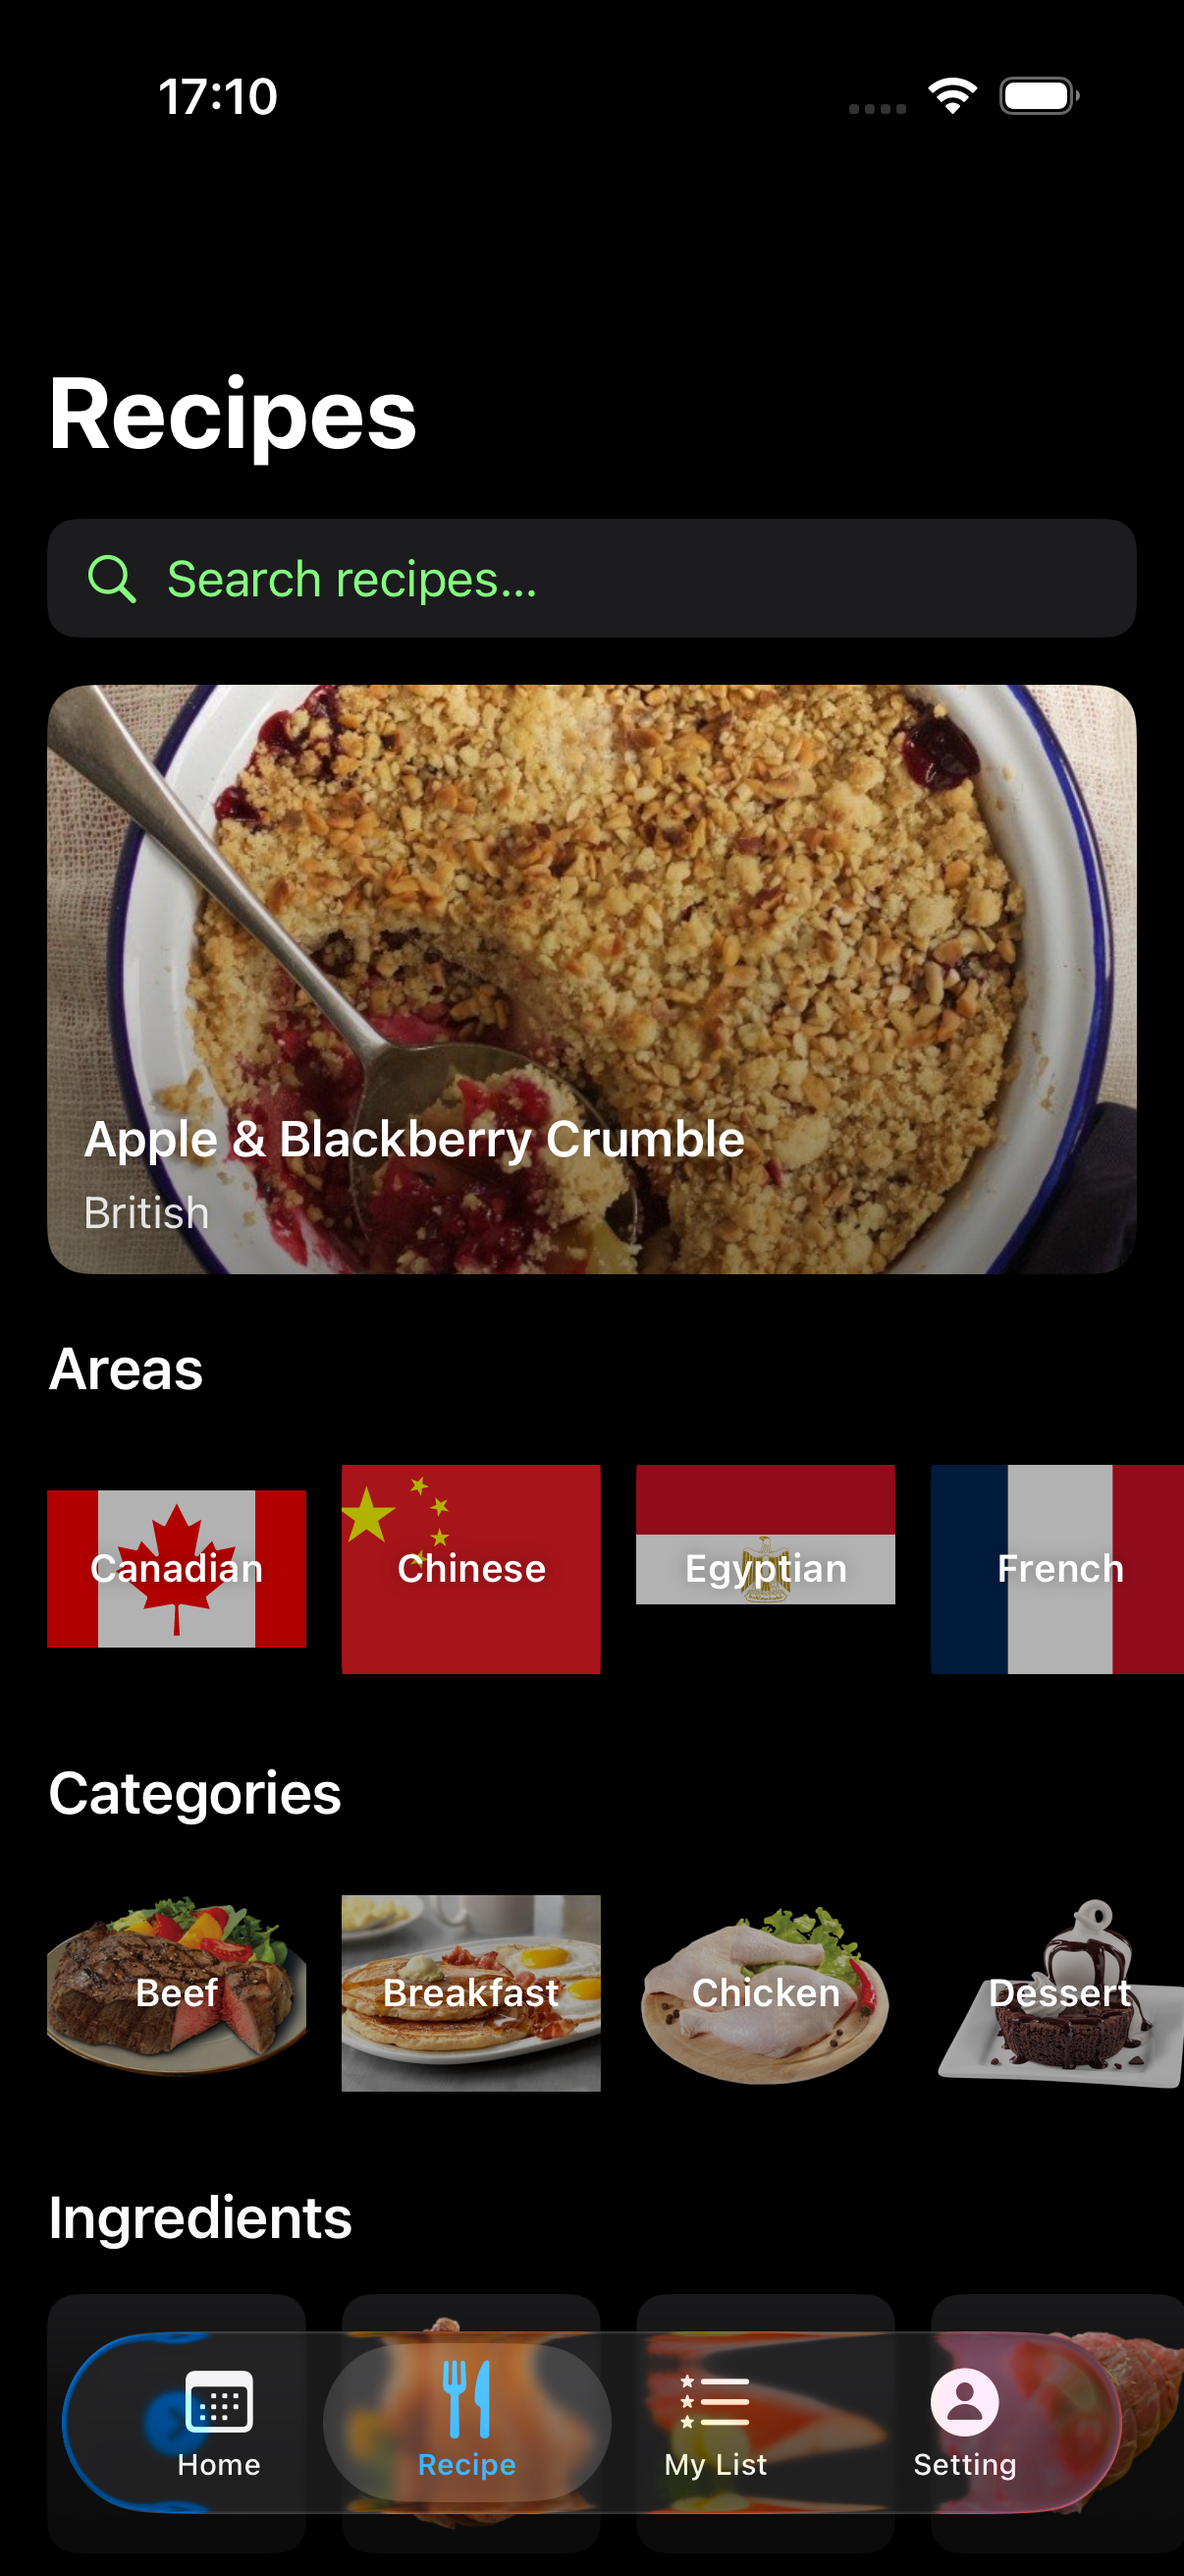
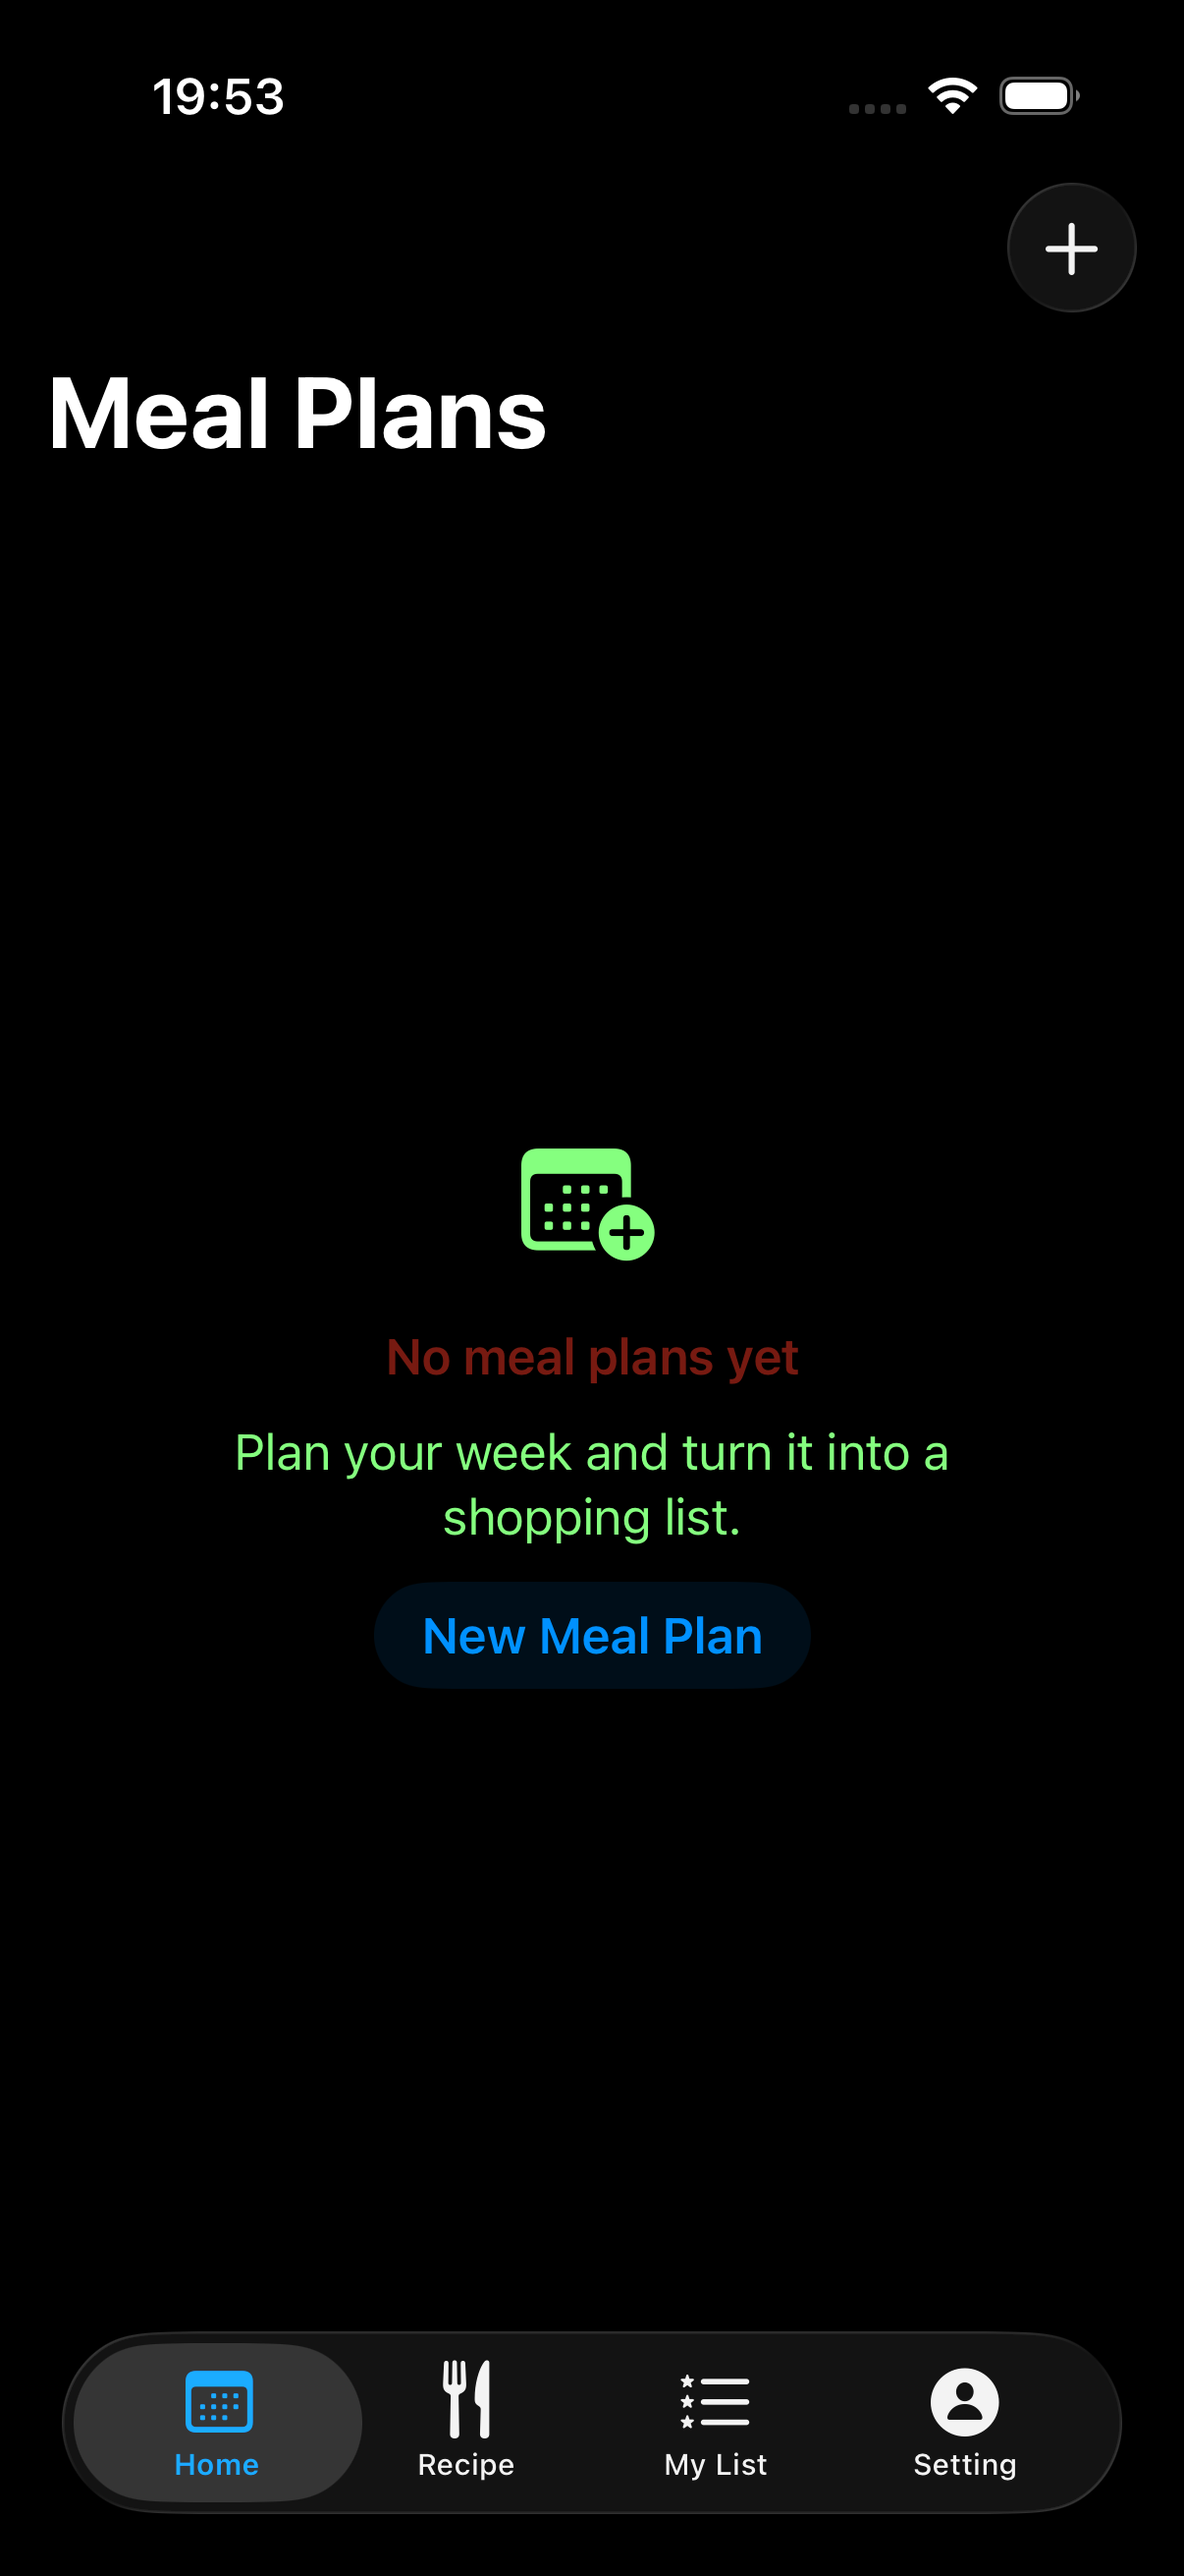
add new screen

diff --git a/SnapshotTest/SnapshotTest.swift b/SnapshotTest/SnapshotTest.swift
@@ -16,23 +16,51 @@ final class SnapshotTest: XCTestCase {
     }
 
     @MainActor
-    func testCaptureMainScreens() throws {
-        let app = XCUIApplication()
-        app.launchArguments = ["-uiTestingInMemoryStore"]
-        app.launch()
+    func testCaptureHomeTab() throws {
+        let app = launchInMemoryApp()
+
+        selectTab("Home", in: app)
+        XCTAssertTrue(waitForPlanHomeContent(in: app), "Home tab did not finish rendering.")
+        capture("01-home", in: app)
+    }
+
+    @MainActor
+    func testCaptureRecipeTab() throws {
+        let app = launchInMemoryApp()
 
         selectTab("Recipe", in: app)
-        waitForHomeContent(in: app)
-        capture("01-home", in: app)
+        waitForRecipeContent(in: app)
+        capture("02-recipe", in: app)
 
         captureSearchScreens(in: app)
         captureAreaList(in: app)
         captureCategoryList(in: app)
         captureIngredientScreens(in: app)
         captureRandomPick(in: app)
-        captureMyList(in: app)
-        captureProfile(in: app)
         captureDetailSheet(in: app)
+    }
+
+    @MainActor
+    func testCaptureMyListTab() throws {
+        let app = launchInMemoryApp()
+
+        selectTab("My List", in: app)
+        captureMyList(in: app)
+    }
+
+    @MainActor
+    func testCaptureSettingTab() throws {
+        let app = launchInMemoryApp()
+
+        selectTab("Setting", in: app)
+        captureSetting(in: app)
+    }
+
+    private func launchInMemoryApp() -> XCUIApplication {
+        let app = XCUIApplication()
+        app.launchArguments = ["-uiTestingInMemoryStore"]
+        app.launch()
+        return app
     }
 
     private func captureSearchScreens(in app: XCUIApplication) {
@@ -42,7 +70,7 @@ final class SnapshotTest: XCTestCase {
             app.staticTexts["Search for a recipe..."].waitForExistence(timeout: defaultTimeout),
             "Search idle state did not render."
         )
-        capture("02-search-idle", in: app)
+        capture("03-search-idle", in: app)
 
         let identifiedSearchField = app.textFields["search.field"]
         let placeholderSearchField = app.textFields["Search recipes…"]
@@ -54,42 +82,58 @@ final class SnapshotTest: XCTestCase {
         searchField.typeText("chicken")
         submitKeyboardSearchIfPresent(in: app)
 
-        XCTAssertTrue(waitFor("search.resultRow.0", in: app), "Search results did not load for query 'chicken'.")
-        capture("03-search-results", in: app)
+        waitForSearchResultsState(in: app)
+        capture("04-search-results", in: app)
         navigateBack(in: app)
-        waitForHomeContent(in: app)
+        waitForRecipeContent(in: app)
     }
 
     private func captureAreaList(in app: XCUIApplication) {
         tap("recipe.areaChip.0", in: app)
-        XCTAssertTrue(waitFor("titleList.recipeCard.0", in: app), "Area list did not load recipe cards.")
-        capture("04-area-list", in: app)
+        waitForTitleListScreen("Area list", in: app)
+        capture("05-area-list", in: app)
         navigateBack(in: app)
-        waitForHomeContent(in: app)
+        waitForRecipeContent(in: app)
     }
 
     private func captureCategoryList(in app: XCUIApplication) {
         tap("recipe.categoryChip.0", in: app)
-        XCTAssertTrue(waitFor("titleList.recipeCard.0", in: app), "Category list did not load recipe cards.")
-        capture("05-category-list", in: app)
+        waitForTitleListScreen("Category list", in: app)
+        capture("06-category-list", in: app)
         navigateBack(in: app)
-        waitForHomeContent(in: app)
+        waitForRecipeContent(in: app)
     }
 
     private func captureIngredientScreens(in app: XCUIApplication) {
         selectTab("Recipe", in: app)
-        waitForHomeContent(in: app)
+        waitForRecipeContent(in: app)
 
-        tap("recipe.ingredientsSeeAll", in: app)
-        XCTAssertTrue(waitFor("ingredientList.card.0", in: app), "Ingredient list did not load cards.")
-        capture("06-ingredient-list", in: app)
+        tapIngredientsSeeAll(in: app)
+        if waitFor("ingredientList.screen", in: app, timeout: 8) {
+            _ = waitForAny(["ingredientList.card.0", "ingredientList.grid"], in: app, timeout: 12)
+            capture("07-ingredient-list", in: app)
 
-        tap("ingredientList.card.0", in: app)
-        XCTAssertTrue(waitFor("titleList.recipeCard.0", in: app), "Ingredient meals list did not load recipe cards.")
-        capture("07-ingredient-meals", in: app)
-        navigateBack(in: app)
-        navigateBack(in: app)
-        waitForHomeContent(in: app)
+            if element("ingredientList.card.0", in: app).exists {
+                tap("ingredientList.card.0", in: app)
+                waitForTitleListScreen("Ingredient meals list", in: app)
+                capture("08-ingredient-meals", in: app)
+                navigateBack(in: app)
+                navigateBack(in: app)
+            } else {
+                navigateBack(in: app)
+                waitForRecipeContent(in: app)
+                captureIngredientMealsFromHomeStrip(in: app)
+            }
+        } else {
+            XCTAssertTrue(
+                waitFor("recipe.ingredientsScroll", in: app, timeout: 1),
+                "Ingredient list did not open and home ingredient strip was not visible."
+            )
+            capture("07-ingredient-list", in: app)
+            captureIngredientMealsFromHomeStrip(in: app)
+        }
+
+        waitForRecipeContent(in: app)
     }
 
     private func captureRandomPick(in app: XCUIApplication) {
@@ -103,53 +147,97 @@ final class SnapshotTest: XCTestCase {
             in: app,
             timeout: 12
         )
-        capture("08-random-pick", in: app)
+        capture("09-random-pick", in: app)
 
         let closeButton = app.buttons["Close"]
         XCTAssertTrue(closeButton.waitForExistence(timeout: defaultTimeout), "Random Pick close button did not appear.")
         closeButton.tap()
-        waitForHomeContent(in: app)
+        waitForRecipeContent(in: app)
     }
 
     private func captureMyList(in app: XCUIApplication) {
-        let myListTab = app.tabBars.buttons["My List"]
-        XCTAssertTrue(myListTab.waitForExistence(timeout: defaultTimeout), "My List tab did not appear.")
-        myListTab.tap()
-
-        XCTAssertTrue(
-            waitForAny(["myList.empty", "myList.list", "myList.error"], in: app),
-            "My List screen did not finish rendering."
-        )
-        capture("09-favourites", in: app)
+        captureMyListSegment("Favourite", named: "11-my-list-favourite", in: app)
+        captureMyListSegment("Mastered", named: "12-my-list-mastered", in: app)
+        captureMyListSegment("Recently Viewed", named: "13-my-list-recently-viewed", in: app)
     }
 
-    private func captureProfile(in app: XCUIApplication) {
-        let profileTab = app.tabBars.buttons["Profile"]
-        XCTAssertTrue(profileTab.waitForExistence(timeout: defaultTimeout), "Profile tab did not appear.")
-        profileTab.tap()
+    private func captureMyListSegment(_ label: String, named snapshotName: String, in app: XCUIApplication) {
+        let segment = myListSegment(label, in: app)
+        XCTAssertTrue(segment.waitForExistence(timeout: defaultTimeout), "\(label) My List segment did not appear.")
+        segment.tap()
+        XCTAssertTrue(waitForMyListContent(in: app), "\(label) My List segment did not finish rendering.")
+        capture(snapshotName, in: app)
+    }
 
-        XCTAssertTrue(waitFor("settings.screen", in: app), "Profile/settings screen did not render.")
-        capture("10-profile", in: app)
+    private func captureSetting(in app: XCUIApplication) {
+        XCTAssertTrue(waitFor("settings.screen", in: app), "Setting screen did not render.")
+        capture("14-setting", in: app)
     }
 
     private func captureDetailSheet(in app: XCUIApplication) {
         selectTab("Recipe", in: app)
 
-        waitForHomeContent(in: app)
+        waitForRecipeContent(in: app)
         tap("recipe.featuredRecipeButton", in: app)
         XCTAssertTrue(waitFor("detail.sheet", in: app), "Detail sheet did not render.")
-        capture("11-detail-sheet", in: app)
+        capture("10-detail-sheet", in: app)
 
         let ingredientsTab = app.buttons["Ingredients"]
         XCTAssertTrue(ingredientsTab.waitForExistence(timeout: defaultTimeout), "Ingredients tab did not appear.")
         ingredientsTab.tap()
         tap("detail.ingredientChip.0", in: app)
-        XCTAssertTrue(waitFor("titleList.recipeCard.0", in: app), "Ingredient meals list did not load from detail.")
+        waitForTitleListScreen("Ingredient meals list from detail", in: app)
     }
 
-    private func waitForHomeContent(in app: XCUIApplication) {
-        XCTAssertTrue(waitFor("recipe.featuredRecipe", in: app), "Home featured recipe did not load.")
-        XCTAssertTrue(waitFor("recipe.randomPickCard", in: app), "Home content did not finish loading.")
+    private func waitForPlanHomeContent(in app: XCUIApplication) -> Bool {
+        waitForAny(["planHome.empty", "planHome.newPlanButton", "planHome.error"], in: app)
+    }
+
+    private func waitForRecipeContent(in app: XCUIApplication) {
+        XCTAssertTrue(waitFor("recipe.featuredRecipe", in: app), "Recipe featured recipe did not load.")
+        XCTAssertTrue(waitFor("recipe.randomPickCard", in: app), "Recipe content did not finish loading.")
+    }
+
+    private func waitForMyListContent(in app: XCUIApplication) -> Bool {
+        waitForAny(["myList.empty", "myList.list", "myList.error"], in: app)
+    }
+
+    private func tapIngredientsSeeAll(in app: XCUIApplication) {
+        let seeAllButton = app.buttons["See all ingredients"]
+        if waitAndReveal(seeAllButton, in: app, maxSwipes: 2) {
+            seeAllButton.tap()
+            return
+        }
+
+        tap("recipe.ingredientsSeeAll", in: app)
+    }
+
+    private func captureIngredientMealsFromHomeStrip(in app: XCUIApplication) {
+        tap("recipe.ingredientChip.0", in: app)
+        waitForTitleListScreen("Ingredient meals list", in: app)
+        capture("08-ingredient-meals", in: app)
+        navigateBack(in: app)
+    }
+
+    private func waitForSearchResultsState(in app: XCUIApplication) {
+        _ = waitForAny(["search.resultRow.0", "search.results", "search.empty", "search.error"], in: app, timeout: 20)
+        XCTAssertTrue(
+            waitForAny(["search.resultRow.0", "search.results", "search.empty", "search.error", "search.loading"], in: app, timeout: 1),
+            "Search screen did not render a results, empty, error, or loading state."
+        )
+    }
+
+    private func waitForTitleListScreen(_ description: String, in app: XCUIApplication) {
+        XCTAssertTrue(waitFor("titleList.screen", in: app), "\(description) screen did not open.")
+        _ = waitForAny(["titleList.recipeCard.0", "titleList.grid"], in: app, timeout: 12)
+    }
+
+    private func myListSegment(_ label: String, in app: XCUIApplication) -> XCUIElement {
+        let identifiedSegment = app.segmentedControls["myList.segment"].buttons[label]
+        if identifiedSegment.waitForExistence(timeout: 3) {
+            return identifiedSegment
+        }
+        return app.buttons[label]
     }
 
     private func selectTab(_ label: String, in app: XCUIApplication) {
@@ -181,8 +269,8 @@ final class SnapshotTest: XCTestCase {
         app.descendants(matching: .any).matching(identifier: identifier).firstMatch
     }
 
-    private func waitFor(_ identifier: String, in app: XCUIApplication) -> Bool {
-        element(identifier, in: app).waitForExistence(timeout: defaultTimeout)
+    private func waitFor(_ identifier: String, in app: XCUIApplication, timeout: TimeInterval? = nil) -> Bool {
+        element(identifier, in: app).waitForExistence(timeout: timeout ?? defaultTimeout)
     }
 
     private func waitForAny(
